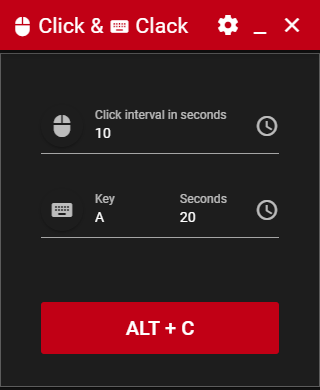
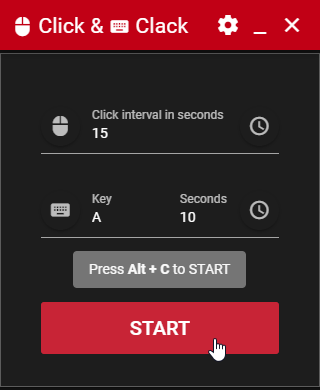
Allows to set click and clack on same timer
Also allows to set delay between them and set which triggers first

diff --git a/src/pages/Index.vue b/src/pages/Index.vue
@@ -1,6 +1,6 @@
 <template>
   <q-page class="flex flex-center">
-    <!-- Mouse Dialog -->
+    <!-- Mouse dialog -->
     <q-dialog
       v-model="mouseSettings"
       transition-show="scale"
@@ -20,7 +20,7 @@
             toggle-color="primary"
             :options="[
               {label: 'Left', value: 'left'},
-              {label: 'Right', value: 'right'},
+              {label: 'Right', value: 'right'}
             ]"
           />
         </q-card-section>
@@ -32,7 +32,7 @@
             toggle-color="primary"
             :options="[
               {label: 'Yes', value: true},
-              {label: 'No', value: false},
+              {label: 'No', value: false}
             ]"
           />
         </q-card-section>
@@ -91,6 +91,95 @@
         </q-page-sticky>
       </q-card>
     </q-dialog>
+    <!-- Timer dialog -->
+    <q-dialog
+      v-model="timerSettings"
+      transition-show="scale"
+      transition-hide="scale"
+      full-width
+      full-height
+    >
+      <q-card class="full-width">
+        <q-card-section class="q-py-xs">
+          <div class="text-h6 text-center">Timer settings</div>
+        </q-card-section>
+        <q-card-section class="q-py-sm">
+          <!-- If Yes, mouse and keyboard share same interval; If No, each has separate interval -->
+          <div class="text-h6 text-center">Click & Clack together</div>
+          <q-btn-toggle
+            v-model="clickAndClackTogether"
+            spread
+            toggle-color="primary"
+            :options="[
+              { label: 'Yes', value: true },
+              { label: 'No', value: false }
+            ]"
+          />
+        </q-card-section>
+        <q-card-section class="q-py-sm">
+          <!-- If true, mouse clicks first, then delay, then keyboard; If false, keyboard clacks first, then delay, then mouse -->
+          <div class="text-h6 text-center">Trigger order</div>
+          <q-btn-toggle
+            v-model="clickFirst"
+            spread
+            toggle-color="primary"
+            :disable="!clickAndClackTogether"
+            :options="[
+              { value: true, slot: 'clickthenclack' },
+              { value: false, slot: 'clackthenclick' }
+            ]"
+          >
+            <template v-slot:clickthenclack>
+              1.
+              <q-icon name="mouse" />
+              2.
+              <q-icon name="keyboard" />
+              <q-tooltip :delay="1000">Click then clack</q-tooltip>
+            </template>
+            <template v-slot:clackthenclick>
+              1.
+              <q-icon name="keyboard" />
+              2.
+              <q-icon name="mouse" />
+              <q-tooltip :delay="1000">Clack then click</q-tooltip>
+            </template>
+          </q-btn-toggle>
+        </q-card-section>
+        <q-card-section class="q-py-sm">
+          <!-- Number in seconds, which sets delay between 1st action and 2nd action on each interval cycle -->
+          <q-input
+            type="number"
+            lazy-rules
+            v-model="delaySeconds"
+            no-error-icon
+            label="Delay in seconds"
+            :disable="!clickAndClackTogether"
+            :rules="[
+              val => val !== null && val !== '' || 'Set delay!',
+              val => val => 0 || 'Must be positive!'
+            ]"
+          >
+            <template v-slot:append>
+              <q-icon name="schedule" />
+            </template>
+          </q-input>
+        </q-card-section>
+        <q-page-sticky
+          position="bottom"
+          :offset="[0, 0]"
+        >
+          <q-card-actions>
+            <q-btn
+              icon="close"
+              round
+              color="primary"
+              v-close-popup
+            >
+            </q-btn>
+          </q-card-actions>
+        </q-page-sticky>
+      </q-card>
+    </q-dialog>
     <!-- Main page -->
     <q-card
       square
@@ -120,16 +209,22 @@
             <template v-slot:prepend>
               <q-btn
                 icon="mouse"
+                size="small"
                 round
                 @click="showMouseSettings"
               />
             </template>
             <template v-slot:append>
-              <q-icon name="schedule" />
+              <q-btn
+                icon="schedule"
+                size="small"
+                round
+                @click="showTimerSettings"
+              />
             </template>
           </q-input>
           <div class="row">
-            <div class="col-7">
+            <div :class="clickAndClackTogether ? 'col-12' : 'col-7'">
               <!-- Key to press input -->
               <q-input
                 class="q-my-xs"
@@ -146,13 +241,17 @@
                 <template v-slot:prepend>
                   <q-btn
                     icon="keyboard"
+                    size="small"
                     round
                     @click="showKeyboardSettings"
                   />
                 </template>
               </q-input>
             </div>
-            <div class="col-5">
+            <div
+              class="col-5"
+              v-show="!clickAndClackTogether"
+            >
               <!-- Key timer input -->
               <q-input
                 class="q-my-xs"
@@ -162,14 +261,19 @@
                 no-error-icon
                 stack-label
                 label="Seconds"
-                :disable="workflowRunning"
+                :disable="workflowRunning || clickAndClackTogether"
                 :rules="[
               val => val !== null && val !== '' || 'Set interval!',
               val => val > 0 || 'Must be positive!'
             ]"
               >
                 <template v-slot:append>
-                  <q-icon name="schedule" />
+                  <q-btn
+                    icon="schedule"
+                    size="small"
+                    round
+                    @click="showTimerSettings"
+                  />
                 </template>
               </q-input>
             </div>
@@ -180,11 +284,16 @@
           <q-btn
             @click="buttonPress"
             unelevated
-            label="Alt + C"
+            :label="workflowRunning ? 'STOP' : 'START'"
             color="primary"
             size="lg"
             class="full-width"
-          />
+          >
+            <q-tooltip
+              transition-show="jump-up"
+              transition-hide="jump-down"
+            >Press <b>Alt + C</b> to {{ workflowRunning ? 'STOP' : 'START' }}</q-tooltip>
+          </q-btn>
         </q-card-actions>
       </q-form>
     </q-card>
@@ -205,9 +314,10 @@ export default {
       workflowRunning: false, // When button was pressed and either mouse, keyboard or both are running
       mouseInterval: {}, // Holds object for time interval on mouse
       keyInterval: {}, // Holds object for time interval on keyboard
-      progress: 0, // Holds progress value
+      randomNum: 0, // Holds random delay value
       mouseSettings: false, // Dialog visibility for mouse settings
       keyboardSettings: false, // Dialog visibility for keyboard settings
+      timerSettings: false, // Dialog visibility for mouse timer settings
       specialKeys: ['space', 'enter', 'tab', 'escape', 'control', 'alt', 'shift'] // Special keys which user can define
     }
   },
@@ -218,10 +328,13 @@ export default {
     },
     mouseTimer: sync('store/mouseTimer'), // Seconds to press mouse
     keyTimer: sync('store/keyTimer'), // Seconds to press key
+    clickAndClackTogether: sync('store/clickAndClackTogether'), // Timer settings - share same timer for clicking and clacking
+    clickFirst: sync('store/clickFirst'), // Timer settings - whether order is click>clack or clack>click
+    delaySeconds: sync('store/delaySeconds'), // Timer settings - Delay between click and clack when timer is shared
     key: sync('store/key'), // Key to press
     mouseButton: sync('store/mouseButton'), // Left or Right button
     doubleClick: sync('store/doubleClick'), // Double click or Single click
-    randomDelay: sync('store/randomDelay'), // Apply random delay up to 5 seconds
+    randomDelay: sync('store/randomDelay'), // Apply random delay, up to 5 seconds
     clicking: sync('store/clicking'), // Should mouse be clicking
     clacking: sync('store/clacking') // Should key be clacking
   },
@@ -232,6 +345,9 @@ export default {
     showKeyboardSettings () {
       this.keyboardSettings = !this.keyboardSettings // Show or hide keyboard settings dialog
     },
+    showTimerSettings () {
+      this.timerSettings = !this.timerSettings // Show or hide mouse timer settings dialog
+    },
     setCustomKey (keyName) {
       this.key = keyName // Set custom key from keyboard dialog
     },
@@ -240,51 +356,61 @@ export default {
     },
     buttonPress () {
       // Activated with button press or global shortcut. Toggle between on and off.
-      // Example: If you set 10 seconds for mouse click, it triggers 10 times each second to update progress. 10. trigger also fires mouse.
-      // Keyboard trigger has separate timer and does not reflect on progress bar
       if (this.workflowRunning) {
         // If workflow is already running, stop it
         this.workflowRunning = false
         this.browserWindow.setProgressBar(-1) // Disables progress on taskbar
-        this.progress = 0
         clearInterval(this.mouseInterval) // Stop cycling intervals for mouse presses
         clearInterval(this.keyInterval) // Stop cycling intervals for key presses
       } else {
         // Start workflow
         this.workflowRunning = true
-        this.browserWindow.setProgressBar(0) // Start progress from 0
-        // Start mouse interval - Interval triggers 10 times to update progress bar, then fires click event, if clicking is enabled
+        this.browserWindow.setProgressBar(2) // Starts continuous progress on taskbar
+        // Start mouse interval - Simply waits certain number of seconds and then clicks, if clicking is enabled
         this.mouseInterval = setInterval(() => {
-          if (this.progress === 10) {
-            this.progress = 0
-            this.browserWindow.setProgressBar(0) // Start progress from 0
-            this.click()
+          this.randomNum = Math.floor(Math.random() * 5 * 1000) // Delay in miliseconds between 0ms and 5000ms (5s)
+          // If click and clack together is enabled, both happens in this mouse interval
+          if (this.clickAndClackTogether) {
+            if (this.clickFirst) {
+              // If mouse should click first, trigger it first, then keyboard clack with eventual delay
+              this.click()
+              setTimeout(() => { this.clack() }, this.delaySeconds * 1000)
+            } else {
+              // If keyboard should clack first, trigger it first, then mouse click with eventual delay
+              this.clack()
+              setTimeout(() => { this.click() }, this.delaySeconds * 1000)
+            }
           } else {
-            this.browserWindow.setProgressBar(this.progress / 10)
-            this.progress++
+            // If click and clack together is not enabled, only click
+            this.click()
           }
-        }, this.mouseTimer * 100)
-        // Start key interval - Simply waits certain number or seconds and then clacks if clacking is enabled
-        this.keyInterval = setInterval(() => {
-          this.clack()
-        }, this.keyTimer * 1000)
+        }, this.mouseTimer * 1000)
+        // Start key interval - Simply waits certain number of seconds and then clacks, if clacking is enabled
+        // If click and clack together is enabled, keyboard interval is not created
+        if (!this.clickAndClackTogether) {
+          this.keyInterval = setInterval(() => {
+            this.clack()
+          }, this.keyTimer * 1000)
+        }
       }
     },
     click () {
+      // If clicking is disabled in settings, do nothing
       if (this.clicking) {
         if (this.randomDelay) {
-          var delay = Math.floor(Math.random() * 5 * 1000) // Delay in miliseconds between 0ms and 5000ms (5s)
-          setTimeout(robot.mouseClick(this.mouseButton, this.doubleClick), delay) // Clicks with either left or right button and either single click or double click with random delay
+          // If random delay should be applied, start timeout, otherwise immediately click
+          setTimeout(robot.mouseClick(this.mouseButton, this.doubleClick), this.randomNum) // Clicks with either left or right button and either single click or double click with random delay
         } else {
           robot.mouseClick(this.mouseButton, this.doubleClick) // Clicks with either left or right button and either single click or double click without delay
         }
       }
     },
     clack () {
+      // If clacking is disabled in settings, do nothing
       if (this.clacking) {
+        // If random delay should be applied, start timeout, otherwise immediately clack
         if (this.randomDelay) {
-          var delay = Math.floor(Math.random() * 5 * 1000) // Delay in miliseconds between 0ms and 5000ms (5s)
-          setTimeout(robot.keyTap(this.key), delay) // Presses defined button with random delay
+          setTimeout(robot.keyTap(this.key), this.randomNum) // Presses defined button with random delay
         } else {
           robot.keyTap(this.key) // Presses defined button without delay
         }

diff --git a/src/store/store/state.js b/src/store/store/state.js
@@ -4,6 +4,9 @@ export default function () {
     keyTimer: 40,
     key: 'A',
     mouseButton: 'left',
+    clickAndClackTogether: false,
+    clickFirst: true,
+    delaySeconds: 1,
     doubleClick: false,
     alwaysOnTop: false,
     randomDelay: false,

diff --git a/src/layouts/MainLayout.vue b/src/layouts/MainLayout.vue
@@ -106,6 +106,12 @@
   </q-layout>
 </template>
 
+<style>
+body {
+  overflow: hidden;
+}
+</style>
+
 <script>
 import { sync } from 'vuex-pathify'
 

diff --git a/README.md b/README.md
@@ -29,6 +29,7 @@ allows you to set:
 From main window, you can click on:
 - mouse icon, which opens mouse settings
 - keyboard icon, which opens special keys
+- clock icon, which opens timer settings
 
 From window toolbar, you can click on:
 - settings icon, which opens application settings
@@ -48,6 +49,15 @@ allows you to set:
 - special key to press
 
 <img src="keyboard-settings.png" alt="Keyboard settings window"/>
+
+### Timer settings
+
+allows you to set:
+- whether mouse and keyboard share same timer
+- whether mouse clicks first or keyboard clacks first in shared timer mode
+- delay between each action in shared timer mode
+
+<img src="timer-settings.png" alt="Timer settings window"/>
 
 ### Application settings
 
